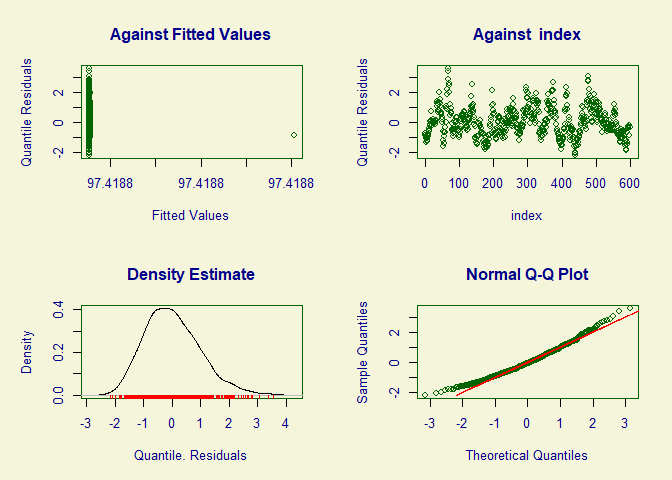
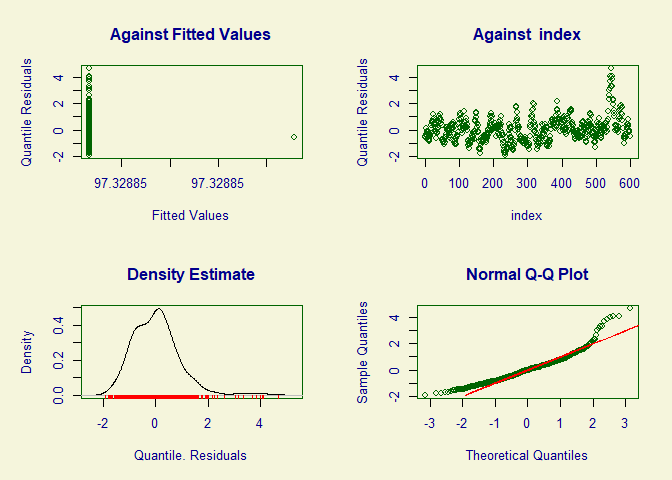
adding covr badge package coverage

diff --git a/README.md b/README.md
@@ -1,7 +1,10 @@
 droughtR
 ================
 
+<!-- badges: start -->
+
 [![DOI](https://zenodo.org/badge/398032827.svg)](https://zenodo.org/doi/10.5281/zenodo.10009276)
+[![codecov](https://codecov.io/gh/mammask/droughtR/graph/badge.svg?token=WYHK9P2NXP)](https://codecov.io/gh/mammask/droughtR)
 
 <img src="https://raw.githubusercontent.com/mammask/droughtR/main/man/figures/droughtR-2.png" align = "right" width = 120/>
 
@@ -41,9 +44,10 @@ rain = dummyrainfall(startYear = 1950, endYear = 2010)
 
 # Compute the non-stationary standardized precipitation index (NSPI) for scale 12 using GAMLSS
 nonstatdrought = computenspi(x = rain, stationaryspi = FALSE, spiScale = 12, dist = 'gamma')
-#> GAMLSS-RS iteration 1: Global Deviance = 3434.017 
-#> GAMLSS-RS iteration 2: Global Deviance = 3433.998 
-#> GAMLSS-RS iteration 3: Global Deviance = 3433.998
+#> GAMLSS-RS iteration 1: Global Deviance = 3437.593 
+#> GAMLSS-RS iteration 2: Global Deviance = 3437.503 
+#> GAMLSS-RS iteration 3: Global Deviance = 3437.501 
+#> GAMLSS-RS iteration 4: Global Deviance = 3437.501
 
 # Plot NSPI
 plot(nonstatdrought)
@@ -54,10 +58,11 @@ plot(nonstatdrought)
 ``` r
 # Compute the stationary standardized precipitation index (NSPI) for scale 12 using GAMLSS and the weibull distribution
 statdrought = computenspi(x = rain, stationaryspi = TRUE, spiScale = 12, dist = 'weibull')
-#> GAMLSS-RS iteration 1: Global Deviance = 3462.996 
-#> GAMLSS-RS iteration 2: Global Deviance = 3460.185 
-#> GAMLSS-RS iteration 3: Global Deviance = 3460.16 
-#> GAMLSS-RS iteration 4: Global Deviance = 3460.16
+#> GAMLSS-RS iteration 1: Global Deviance = 3584.251 
+#> GAMLSS-RS iteration 2: Global Deviance = 3572.196 
+#> GAMLSS-RS iteration 3: Global Deviance = 3572.113 
+#> GAMLSS-RS iteration 4: Global Deviance = 3572.112 
+#> GAMLSS-RS iteration 5: Global Deviance = 3572.112
 
 # Plot SPI 
 plot(statdrought)
@@ -95,11 +100,11 @@ plot(nonstatdrought[['model']])
 
     #> ******************************************************************
     #>        Summary of the Quantile Residuals
-    #>                            mean   =  -3.321116e-05 
-    #>                        variance   =  1.001667 
-    #>                coef. of skewness  =  -0.2636465 
-    #>                coef. of kurtosis  =  2.786398 
-    #> Filliben correlation coefficient  =  0.9970285 
+    #>                            mean   =  0.0001056046 
+    #>                        variance   =  1.001684 
+    #>                coef. of skewness  =  -0.1608691 
+    #>                coef. of kurtosis  =  2.891075 
+    #> Filliben correlation coefficient  =  0.9985334 
     #> ******************************************************************
 
 ``` r
@@ -111,11 +116,11 @@ plot(statdrought[['model']])
 
     #> ******************************************************************
     #>        Summary of the Quantile Residuals
-    #>                            mean   =  0.008349489 
-    #>                        variance   =  0.9233062 
-    #>                coef. of skewness  =  0.5433075 
-    #>                coef. of kurtosis  =  3.27711 
-    #> Filliben correlation coefficient  =  0.9910283 
+    #>                            mean   =  0.02376729 
+    #>                        variance   =  0.8480796 
+    #>                coef. of skewness  =  1.198253 
+    #>                coef. of kurtosis  =  6.363054 
+    #> Filliben correlation coefficient  =  0.9665636 
     #> ******************************************************************
 
 As presented in the diagnostic charts, the Normal Q-Q plot of the GAMLSS
@@ -144,8 +149,8 @@ library(gamlss)
 # Compare the two model based implementations using AIC
 GAIC(nonstatdrought[['model']], statdrought[['model']])
 #>                           df      AIC
-#> nonstatdrought[["model"]]  4 3441.998
-#> statdrought[["model"]]     2 3464.160
+#> nonstatdrought[["model"]]  4 3445.501
+#> statdrought[["model"]]     2 3576.112
 ```
 
 <!-- #### Data Split -->
